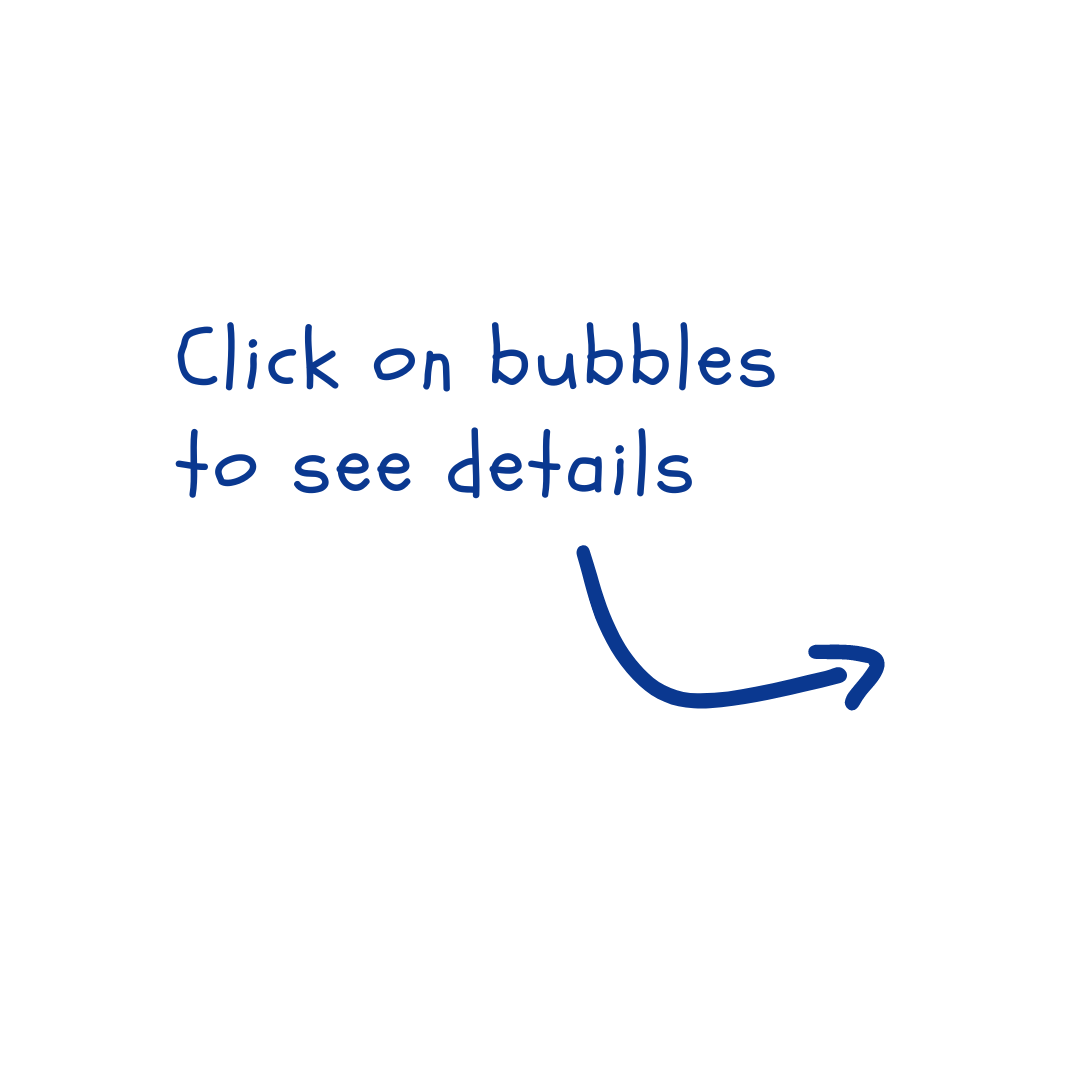
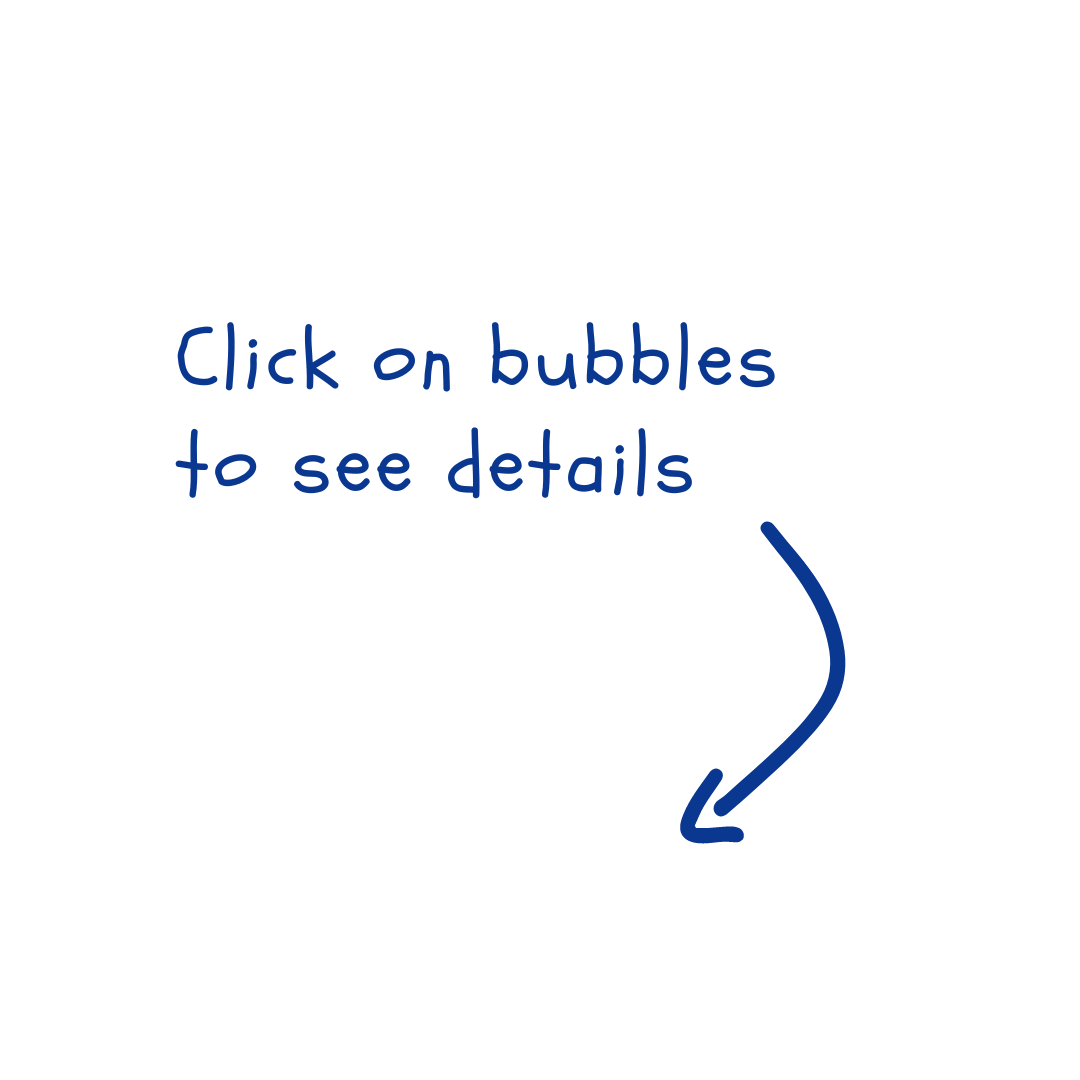
[+ sticky skills & contact] 16/09/2024

Changed region(s): [[0.5806, 0.5194, 0.825, 0.7944], [0.5194, 0.4889, 0.5806, 0.6111], [0.7028, 0.4889, 0.7333, 0.5194]]

diff --git a/pages/index.vue b/pages/index.vue
@@ -356,8 +356,9 @@
 					Skills
 				</h2>
 				<div
-					class="flex flex-col lg:flex-row lg:justify-evenly lg:pt-28 2xl:pt-40 items-center gap-40 2xl:gap-x-60 gap-y-20 my-20">
+					class="flex flex-col lg:flex-row lg:justify-evenly lg:pt-28 2xl:pt-40 items-center lg:items-start gap-40 2xl:gap-x-60 gap-y-20 my-20">
 					<div
+					id="skill-card"
 						class="bg-gray-dark h-[24rem] md:h-[27rem] lg:h-[30rem] 2xl:h-[27rem] w-11/12 md:w-4/6 lg:w-3/6 2xl:w-2/5 shadow-around border-[1px] text-center border-secondary rounded-3xl flex flex-row justify-between">
 						<div
 							class="flex justify-center rounded-tl-[1.35rem] rounded-br-[1.35rem] bg-secondary w-[12%] md:w-[9%] h-fit">
@@ -420,17 +421,13 @@
 						</div>
 					</div>
 					<div
+					id="container-skills"
 						class="relative flex lg:grid lg:w-4/5 2xl:w-3/5 flex-wrap grid-cols-4 justify-center pt-28 md:pt-60 lg:pt-0 gap-10 gap-y-7 md:gap-x-20 md:gap-y-12">
 						<NuxtImg
 							:src="`/img/details-skills-${selectedColor}.png`"
 							format="webp"
-							alt="Click on bubbles to see details"
-							class="hover:saturate-200 transition-all duration-500 hidden lg:block absolute scale-50 bottom-[68%] 2xl:bottom-[55%] right-[78%] 2xl:right-[70%] z-10" />
-						<NuxtImg
-							:src="`/img/mobile-details-skills-${selectedColor}.png`"
-							format="webp"
 							alt="Click on bubbles to see details (mobile)"
-							class="hover:saturate-200 transition-all duration-500 lg:hidden absolute scale-50 bottom-[80%] md:bottom-[65%] right-[30%] md:right-[22%] z-10" />
+							class="hover:saturate-200 transition-all duration-500 absolute scale-50 bottom-[80%] md:bottom-[65%] lg:bottom-[74%] right-[30%] md:right-[22%] lg:right-[40%] z-10" />
 						<NuxtImg
 							:src="`/img/stars-info-${selectedColor}.png`"
 							format="webp"
@@ -644,6 +641,7 @@ import {
 	apparitionMobileProjectCards,
 	appearBento,
 	appearStart,
+	stickySkills,
 } from "~/plugins/gsap";
 import { mouseEffect } from "~/plugins/global.js";
 
@@ -994,6 +992,7 @@ onMounted(() => {
 	appearStart();
 	applyEffects();
 	stickyProject();
+	stickySkills();
 	apparitionMobileProjectCards();
 	appearBento();
 

diff --git a/plugins/gsap.js b/plugins/gsap.js
@@ -21,6 +21,8 @@ export default defineNuxtPlugin(() => {
 		apparitionMobileProjectCards,
 		appearBento,
 		appearStart,
+		stickyContact,
+		stickySkills,
 	};
 });
 
@@ -501,7 +503,7 @@ export function stickyProject() {
 				trigger: projects,
 				start: "top 30%",
 				end: "bottom 80%",
-				scrub: 0,
+				scrub: 0.5,
 			},
 		});
 	}
@@ -737,5 +739,45 @@ export function appearStart() {
 			{ y: 600, opacity: 0 },
 			{ y: 0, opacity: 1, duration: 2, ease: "elastic.out(1, 0.5)" }
 		);
+	}
+}
+
+export function stickyContact() {
+	const container = document.getElementById("container-contact");
+	const contact = document.getElementById("contact");
+	const width = window.innerWidth;
+	const isDesktop = width > 1024;
+
+	if (isDesktop && container.offsetHeight > contact.offsetHeight) {
+		gsap.to(contact, {
+			y: () => `${container.offsetHeight - contact.offsetHeight}px`,
+			ease: "none",
+			scrollTrigger: {
+				trigger: container,
+				start: "top 30%",
+				end: "bottom 80%",
+				scrub: 0.5,
+			},
+		});
+	}
+}
+
+export function stickySkills() {
+	const container = document.getElementById("container-skills");
+	const skillCard = document.getElementById("skill-card");
+	const width = window.innerWidth;
+	const isDesktop = width > 1024;
+
+	if (isDesktop && container.offsetHeight > skillCard.offsetHeight) {
+		gsap.to(skillCard, {
+			y: () => `${container.offsetHeight - skillCard.offsetHeight}px`,
+			ease: "none",
+			scrollTrigger: {
+				trigger: container,
+				start: "top 30%",
+				end: "bottom 80%",
+				scrub: 0.5,
+			},
+		});
 	}
 }

diff --git a/components/ContactForm.vue b/components/ContactForm.vue
@@ -2,7 +2,8 @@
 	<div
 		class="relative w-full mb-40 flex flex-col lg:flex-row gap-20 items-start justify-between">
 		<div
-			class="relative lg:p-8 w-full lg:w-1/2 flex flex-col justify-start items-start">
+		id="container-contact"
+			class="relative lg:py-8 w-full lg:w-1/2 flex flex-col justify-start items-start">
 			<h2
 				class="text-[2rem] md:text-[3rem] 2xl:text-[3.5rem] font-bold text-secondary md:mb-1 text-start">
 				Just say Hello !
@@ -189,7 +190,8 @@
 			</Transition>
 		</div>
 		<div
-			class="p-4 md:p-10 2xl:p-14 w-full rounded-2xl lg:rounded-[3rem] bg-secondary-transparent shadow-around shadow-black lg:w-fit flex flex-col gap-y-2.5 justify-start items-start">
+			id="contact"
+			class="p-4 md:p-10 2xl:p-14 w-full rounded-2xl bg-secondary-transparent shadow-around shadow-black lg:w-fit flex flex-col gap-y-2.5 justify-start items-start">
 			<h2
 				class="text-[1.7rem] md:text-[2rem] lg:text-[3.5rem] leading-[1.7rem] md:leading-[2rem] lg:leading-[3.5rem] font-bold text-secondary mb-5 text-start">
 				Contact me
@@ -344,6 +346,11 @@
 
 <script setup>
 import { reactive, ref, watch } from "vue";
+import { stickyContact } from "~/plugins/gsap.js";
+
+onMounted(() => {
+	stickyContact();
+});
 
 const form = reactive({
 	firstname: "",

diff --git a/layouts/Header.vue b/layouts/Header.vue
@@ -41,7 +41,7 @@
 					<img
 						:src="`/img/logo-${primaryColor}.png`"
 						alt="Rémy Canal"
-						class="change-img-color hover-scale-effect hover:saturate-200 hover:translate-x-2 transition-all duration-500 w-20 lg:w-14 h-auto mt-4 lg:mt-0 pointer-events-auto" />
+						class="change-img-color text-shadow hover-scale-effect hover:translate-x-2 transition-all duration-500 w-20 lg:w-14 h-auto mt-4 lg:mt-0 pointer-events-auto" />
 				</a>
 				<div
 					class="flex flex-col lg:flex-row tracking-widest lg:tracking-normal 2xl:tracking-widest gap-x-20 gap-y-10 text-white uppercase items-center">
@@ -57,7 +57,7 @@
 								applyZoomEffect(index);
 							"
 							href="#"
-							class="menu-sm transition-all duration-300 ease-in-out text-xl hover-scale-effect clickable cursor-none">
+							class="menu-sm text-shadow transition-all duration-300 ease-in-out text-xl hover-scale-effect clickable cursor-none">
 							{{ menu }}
 						</a>
 					</span>

diff --git a/assets/css/main.css b/assets/css/main.css
@@ -94,6 +94,10 @@ p {
 	filter: drop-shadow(0 0 5px var(--black));
 }
 
+.logo-img {
+	filter: drop-shadow(0 0 10px var(--black));
+}
+
 @media screen and (max-width: 1024px) {
 	.set-dropdown-menu {
 		transform: translateY(-150%);

diff --git a/components/ProjectCard.vue b/components/ProjectCard.vue
@@ -78,10 +78,6 @@ const props = defineProps({
 	);
 }
 
-.logo-img {
-	filter: drop-shadow(0 0 10px var(--black));
-}
-
 .techno-badge {
 	padding: 4px 8px;
 	border-radius: 12px;
